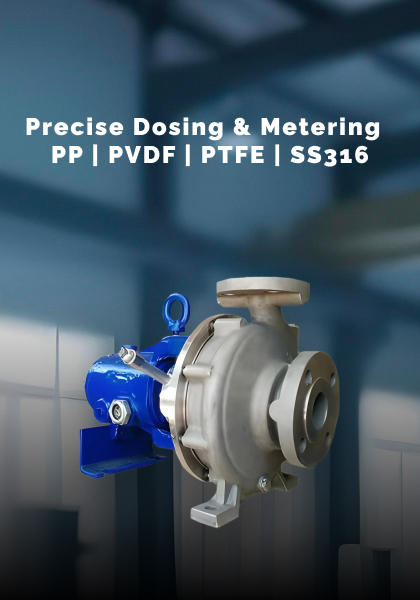
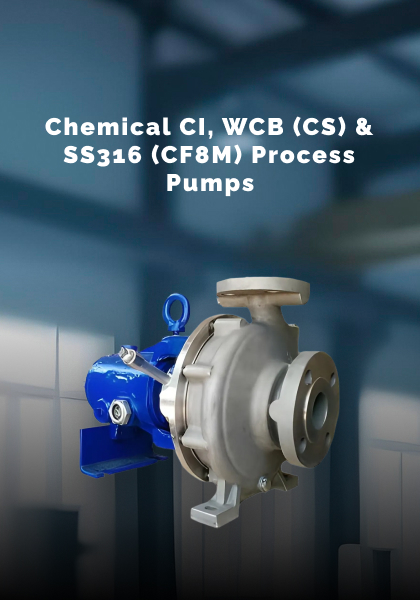
enquiry - updated

Changed region(s): [[0.0619, 0.18, 0.9286, 0.33]]

diff --git a/Chemical-CI.html b/Chemical-CI.html
@@ -431,14 +431,14 @@
         <div class="row">
           <div class="col-12 col-lg-6">
             <h2 class="fw-semibold text-uppercase">
-              Chemical SS316 (CF8M) <br />
+              Chemical CI <br />
               PUMP DESCRIPTION
             </h2>
             <hr class="underline-products" />
           </div>
           <div class="col-12 col-lg-6">
             <p>
-                These sealless, leak-proof pumps are ideal for handling harmful or hazardous liquids, exotic chemicals, acids, alkalis, corrosives, contaminants, and toxic substances. Magnetic drive pumps are commonly used in such applications to ensure safe and efficient fluid transfer. Since no shaft seal is used, the impeller is rotated through a magnetic drive. High-power permanent rare earth magnets are incorporated into the magnetic drive arrangement, providing high mechanical efficiency with zero slippage.
+              Chemical metallic pumps are designed to allow the highest interchangeability of their parts. Therefore, a small number of spare parts is necessary even when many different pumps are installed in the same plant. Characteristics chemical metallic pumps are designed for diathermic and molten fluids up to 800 °c and is available both in air or water cooled versions.
             </p>
           </div>
         </div>
@@ -540,7 +540,10 @@
                 aria-labelledby="spec-tab"
               >
                 <div class="bullet-list">
-                  <p>100% leak proof seal-less magnetic drive pumps in SS 316 with wide range in capacity and horse power. High power permanent rare earth magnets provides high mechanical efficiency with zero slippage and hence suitable for pumps up-to 30 HP.</p>
+                  <p>Maximum Flow Rate 2000 lpm</p>
+                  <p>Maximum Discharge Head or Pressure 76 mwc</p>
+                  <p>Maximum Suction Lift Wet 4 mwc with Foot Valve</p>
+                  <p>Maximum Temperature 600 Deg.C.</p>
                   
                 </div>
                 <div>
@@ -562,15 +565,12 @@
                 aria-labelledby="features-tab"
               >
                 <div class="bullet-list">
-                  <p>100% Leak-Proof</p>
-                  <p>Flow Rate:1666 LPM</p>
-                  <p>Head :100 mwc</p>
-                  <p>Low Downtime</p>
-                  <p>Low Maintanance</p>
-                  <p>No Shaft Seal</p>
-                  <P>Solid handling range: 5% hard solids and 150 microns diameter</P>
-                  <P>Temprature: 250 degree C</P>
-                  <P>Viscosity: 350 mm. sq/s</P>
+                  <p>Operating frequency of 50Hz & 60Hz</p>
+                  <p>Manufactured as per ISO 2858, ISO 5199 & DIN 24256</p>
+                  <p>Option of closed, semi-open and open impeller available</p>
+                  <p>Gland packing with internal/external flushing arrangements</p>
+                  <p>Single Mechanical seal arrangements, double seal in tandem as well as back-to-back arrangement, Cartridge type mechanical seal, etc</p>
+                  <p>Jacketed Volute casing and bearing bracket available</p>
                 </div>
                 <div>
                   <div class="download-brochure my-4 text-start">
@@ -592,20 +592,21 @@
               >
                 <div class="row">
                   <div class="col-6 bullet-list">
-                    <p>Carcinogenic Liquids</p>
-                    <p>Corrosive Liquids</p>
-                    <p>Cryogenics</p>
-                    <p>Heat Transfer Oils</p>
-                    <p>Hydrocarbons</p>
-                    <p>Noxious Liquids</p>
+                    <p>Chemical Process Industries </p>
+                    <p>Descaling Plants</p>
+                    <p>Drugs and Pharmaceuticals </p>
+                    <p>Fertilizer Industries</p>
+                    <p>Food Industries</p>
+                    <p>Heating and Air Conditioning Plants</p>
                     
                   </div>
                   <div class="col-6 bullet-list">
-                    <p>Other Flammables</p>
-                    <p>Pyrophoric</p>
-                    <p>Radioactive Liquids</p>
-                    <p>Refrigerants </p>
-                    <p>Toxic Liquids</p>
+                    <p>Petrochemical Industries</p>
+                    <p>Pulp & Paper Industries</p>
+                    <p>Refineries</p>
+                    <p>Sugar Industries</p>
+                    <p>Thermal Power Plants</p>
+                    <p>Thermic Fluid Boiler Manufacturers</p>
                     
                   </div>
                 </div>
@@ -626,7 +627,10 @@
                 aria-labelledby="moc-tab"
               >
                 <div class="bullet-list">
-                  <p>SS 316</p>
+                  <p>Cast Iron</p>
+                  <p>Cast Steel</p>
+                  <p>SS316</p>
+                  <p>Any Exotic Alloys</p>
                   
                 </div>
                 <div>

diff --git a/Enquiry.html b/Enquiry.html
@@ -404,7 +404,7 @@
     <section class="banner-section d-none d-md-block animate-item">
       <div class="container-fluid p-0">
         <img
-          src="Images/07.Chemical SS304 (CF8) & SS316 (CF8M) Magnetic Drive Pumps.jpg"
+          src="Images/enquiry-banner.jpg"
           alt="Banner Image"
           class="img-fluid banner-img w-100"
         />
@@ -415,7 +415,7 @@
     <section class="banner-section d-block d-md-none animate-item">
       <div class="container p-0">
         <img
-          src="Images/07.Chemical SS304 (CF8) & SS316 (CF8M) Magnetic Drive Pumps-mob.jpg"
+          src="Images/enquiry-mob.jpg"
           alt="Banner Image"
           class="img-fluid banner-img w-100"
         />
